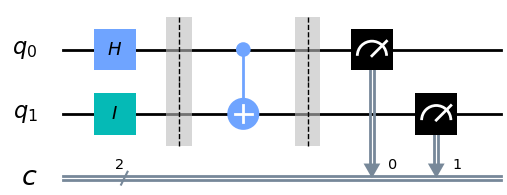
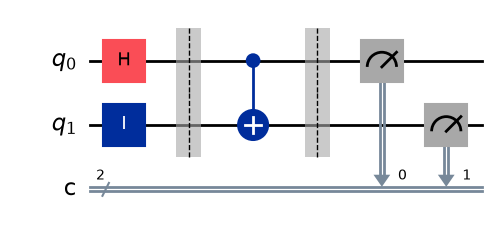
deprecate provider, implement runtime; minor fixes for qiskit >=2.0; ci and readme update

diff --git a/README.md b/README.md
@@ -1,5 +1,9 @@
 # Caml_qiskit
 
+[![CI](https://github.com/dakk/caml_qiskit/actions/workflows/ci.yml/badge.svg)](https://github.com/dakk/caml_qiskit/actions/workflows/ci.yml)
+[![opam](https://img.shields.io/opam/v/qiskit)](https://opam.ocaml.org/packages/qiskit/)
+[![License: MIT](https://img.shields.io/badge/license-MIT-blue.svg)](LICENSE)
+
 An OCaml wrapper for IBM Qiskit quantum computing toolkit.
 
 ```opam install qiskit```
@@ -38,12 +42,12 @@ aer_simulator "statevector"
 
 ```ocaml
 (* Run the circuit on real quantum hardware *)
-let _ = IBMProvider.save_account "TOKEN" in
-let j = IBMProvider.get_backend "ibmq_london" prov |> run qc in
-IBMProvider.job_monitor j;
+let serv = IBMRuntime.service ~token:"TOKEN" () in
+let backend = IBMRuntime.least_busy serv in
+let j = IBMRuntime.sampler backend |> IBMRuntime.run (transpile qc backend) in
 j 
   |> result 
-  |> get_counts 
+  |> IBMRuntime.get_counts 
   |> Visualization.plot_histogram;;
 ```
 
@@ -64,12 +68,16 @@ You also need to install these python libraries (via pip):
 - pylatexenc
 
 And optional for IBM quantum cloud computers:
-- qiskit_ibm_provider
+- qiskit_ibm_runtime
+
+Note: the legacy `IBMProvider` module (backed by `qiskit_ibm_provider`) has
+been deprecated by IBM and is not compatible with qiskit >= 2.0; use the
+`IBMRuntime` module instead.
 
 
 ## License
 ```
-Copyright (c) 2020-2024 Davide Gessa
+Copyright (c) 2020-2026 Davide Gessa
 
 Permission is hereby granted, free of charge, to any person
 obtaining a copy of this software and associated documentation